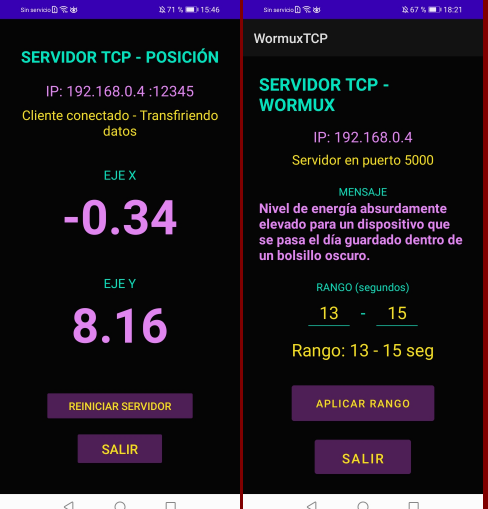
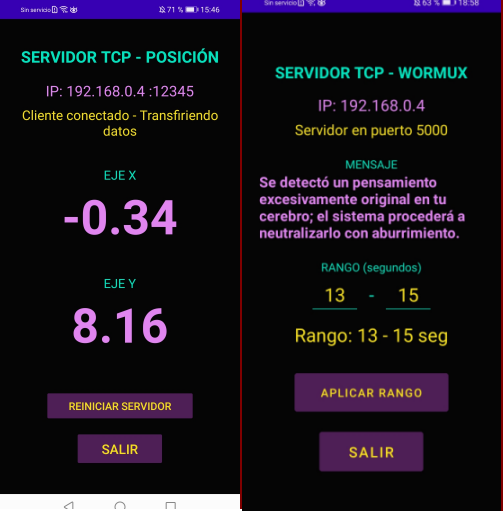
Ajustes para captura de pruebas

diff --git a/Readme.md b/Readme.md
@@ -41,12 +41,31 @@ Descargar APKs:
 
 ---
 
+## Test para ejecución con python3:
+```import socket
+ # Cambiar IP por la que ofrece la aplicación del celular...
+HOST = "192.168.0.4" 
+PORT = 5000  ## Cambiar puerto según App
+
+with socket.socket(socket.AF_INET, socket.SOCK_STREAM) as s:
+    s.connect((HOST, PORT))
+    print("Conectado! Moviendo el celular...\n")
+
+    while True:
+        data = s.recv(1024).decode('utf-8').strip()
+        if data:
+            print(data)
+```
+
+
+---
+
 ## Propósito
 
 - Pruebas de red  
 - Aprendizaje de TCP/IP  
 - Experimentos con múltiples clientes  
-- Caos controlado 😄😄😄  
+- Caos controlado 
 
 ---
 